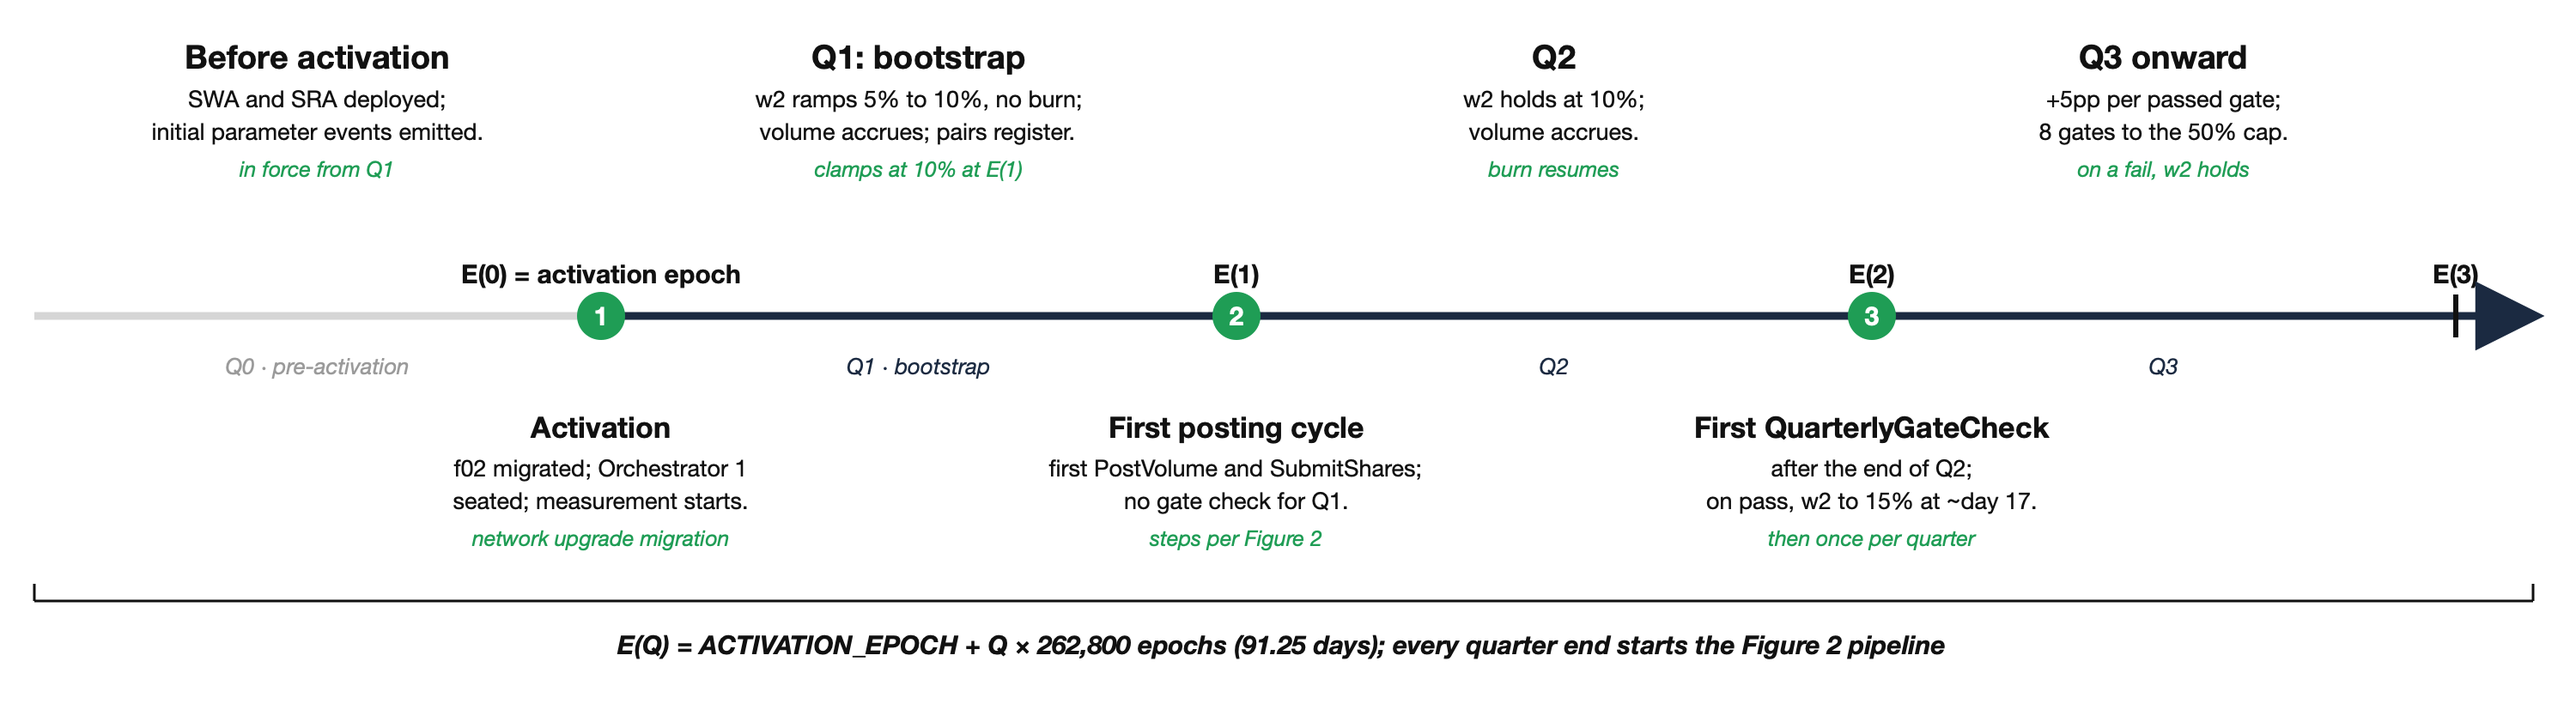
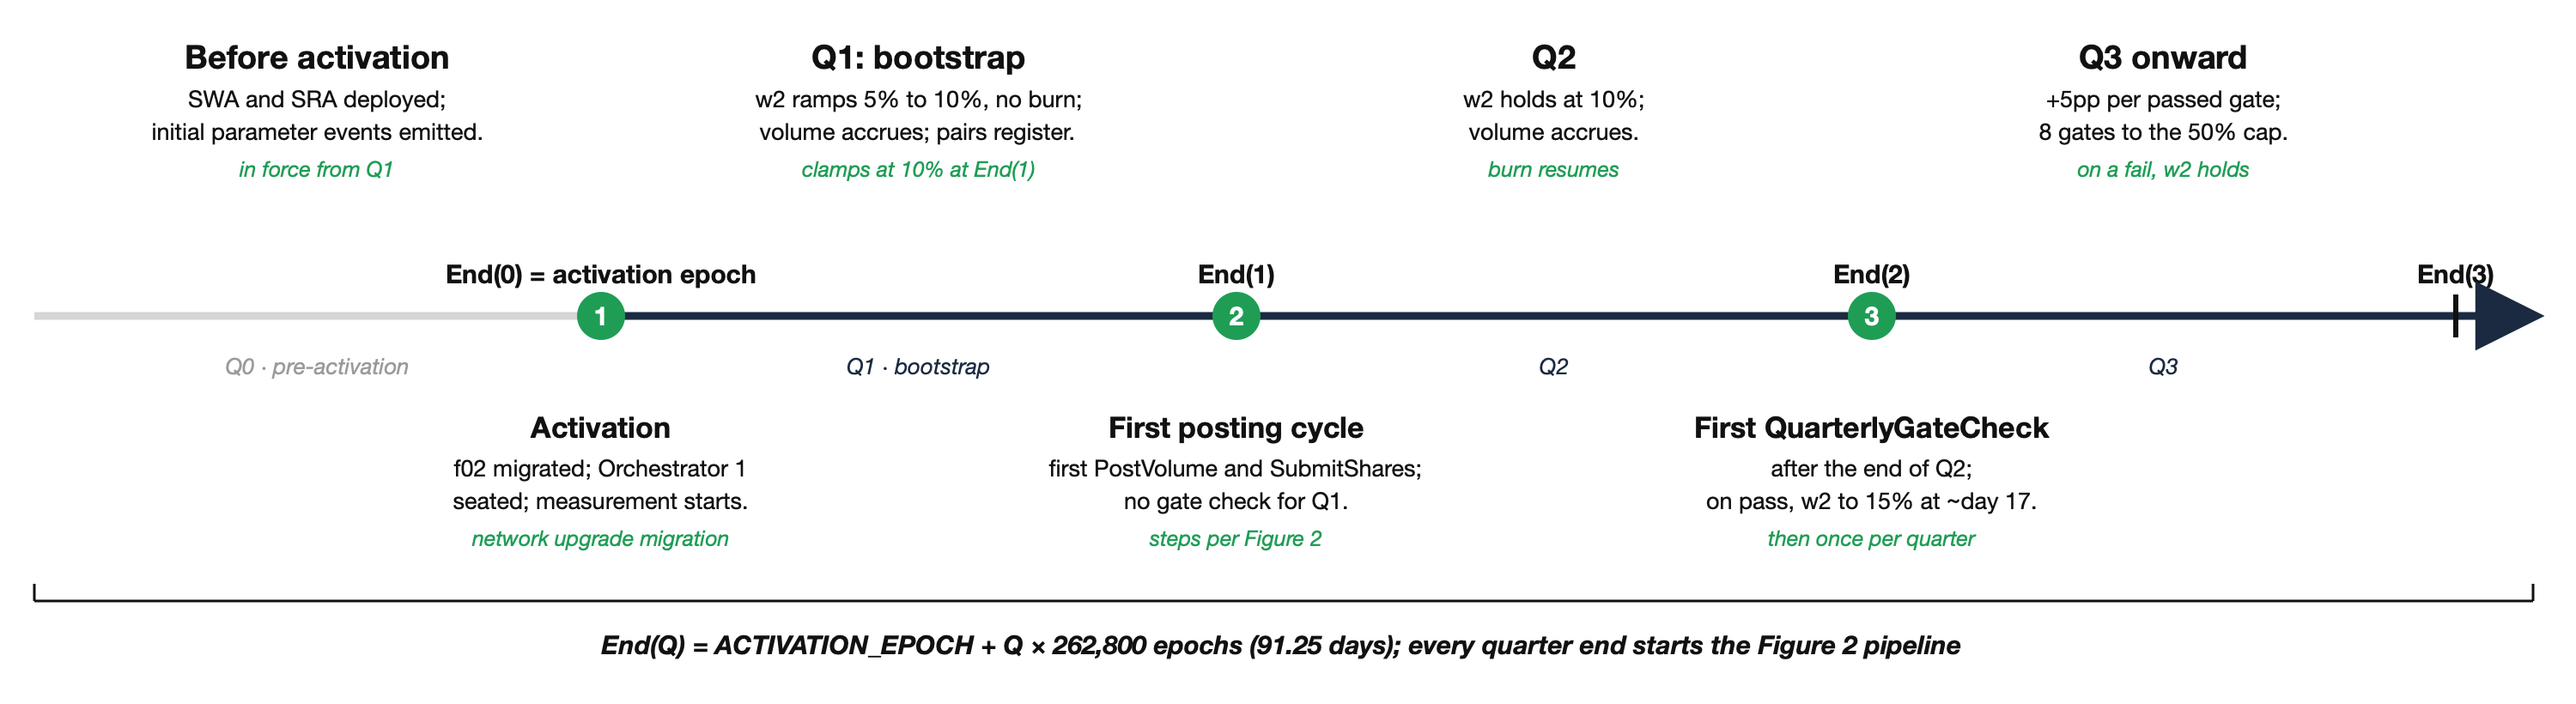
FIP-0118: payment period vs reporting period, and rename E to End

diff --git a/FIPS/fip-0118.md b/FIPS/fip-0118.md
@@ -567,7 +567,7 @@ Section 3.2).
 
 ![Timeline of one quarter: posting period (values already converted to USD off-chain before posting), verification window, values bind, gate check, shares update, timelock](../resources/fip-0118/quarter-timeline.png)
 
-*Figure 2: one quarter, end to end. Quarter Q ends at epoch `E(Q) = ACTIVATION_EPOCH + Q * EPOCHS_PER_QUARTER`; the figure's numbered steps 1 to 6 all run after E. Durations shown (3-day posting, 7-day verification) are the initial mainnet values, fixed at SRA deployment (Section 3.2); `SWA_TIMELOCK` is 7 days (Section 2.4). `QuarterlyGateCheck` (4) and `SubmitShares` (5) are independent and can run in either order. FIL-to-USD conversion (Section 2.3) happens off-chain, before posting.*
+*Figure 2: one quarter, end to end. Quarter Q ends at epoch `End(Q) = ACTIVATION_EPOCH + Q * EPOCHS_PER_QUARTER`; the figure's numbered steps 1 to 6 all run after `End(Q)`. Durations shown (3-day posting, 7-day verification) are the initial mainnet values, fixed at SRA deployment (Section 3.2); `SWA_TIMELOCK` is 7 days (Section 2.4). `QuarterlyGateCheck` (4) and `SubmitShares` (5) are independent and can run in either order. FIL-to-USD conversion (Section 2.3) happens off-chain, before posting.*
 
 Once per quarter, off the per-epoch path:
 
@@ -596,12 +596,12 @@ Once per quarter, off the per-epoch path:
 
 2.  **Verification window mechanics.**
 
-    1.  Let quarter Q end at epoch E. Posting: each Orchestrator posts
-        `FPV_i(Q)` to the SRA during the posting period (E, E +
+    1.  Let quarter Q end at epoch `End`. Posting: each Orchestrator posts
+        `FPV_i(Q)` to the SRA during the posting period (`End`, `End` +
         `POST_PERIOD`].
 
     2.  Verification: the verification window is a fixed phase of the
-        quarter timeline, (E + `POST_PERIOD`, E + `POST_PERIOD` +
+        quarter timeline, (`End` + `POST_PERIOD`, `End` + `POST_PERIOD` +
         `VERIFICATION_WINDOW`], and opens when the posting period
         ends, whether or not values were posted; both durations are
         fixed at SRA deployment (initial values, Section 3.2). Their
@@ -743,6 +743,12 @@ Once per quarter, off the per-epoch path:
 ![Timeline from pre-activation through the quarter 1 bootstrap to the first gate check after quarter 2](../resources/fip-0118/launch-timeline.png)
 
 *Figure 4: launch sequence, from pre-activation (Q0, informal) to the first gate check after Q2. Each quarter end starts the Figure 2 pipeline.*
+
+**Payment period.** The days a quarter's numbers pay are a different set of days than the days the quarter measured. Quarter Q's gate write (step 4) queues in f02 under `SWA_TIMELOCK`, so the stepped w2 pays no earlier than `End(Q) + POST_PERIOD + VERIFICATION_WINDOW + SWA_TIMELOCK`, about 17 days into quarter Q+1 with the initial values (Section 3.2); the share map (step 5) binds without a hold, from about 10 days in. Both offsets are floors, not schedules: `QuarterlyGateCheck` and `SubmitShares` are permissionless cranks, nothing on chain executes them, and the timelock clock starts at the gate check's call epoch, so each effect arrives exactly as late as its crank. A late crank moves an effect later, never earlier, and reads the same bound values (step 3), so delay changes when quarter Q's numbers pay, never what they pay. Meanwhile the gap burns: f02 evaluates the burn residual w0 every epoch (Section 2.1), so each day of offset, and each day of crank delay, burns the difference between the ceiling and the standing w2; Parameter Choices and Calibration quantifies this baseline.
+
+![w2 stepping behind its ramping ceiling, each step about 17 days after a quarter end, with the burn weight oscillating in the gap](../resources/fip-0118/payment-period.png)
+
+*Figure 5: w2 against its ceiling on the all-pass path, drawn with zero crank delay (every permissionless call at its first callable epoch). The ceiling 1 - w1 ramps about 5pp per quarter; w2 steps 5pp once per quarter, about 17 days after each quarter end (posting, verification, timelock), so the burn w0 oscillates between about 0.94% just after a step and about 5.93% just before the next. The dashed staircase steps at each quarter end with no payment lag, for comparison. A late crank widens each gap, it never narrows one.*
 
 #### 2.3 FPV definitions
 
@@ -2712,8 +2718,8 @@ surface to protect. Neither property holds for the SWA and SRA.
 
   - **Burn is not a failure signal.** A gap is open even when every
     gate passes: w1 ramps down continuously, while w2 steps up only
-    once per quarter, about 17 days after the measured quarter closes
-    (posting, verification window, timelock). On the all-pass path
+    once per quarter, at the earliest about 17 days after the measured
+    quarter closes (the payment period, Section 2.2). On the all-pass path
     the burn weight w0 therefore oscillates every quarter, from about
     0.94% of the block reward just after a step to about 5.93% just
     before the next one, falling back at each step and growing again
